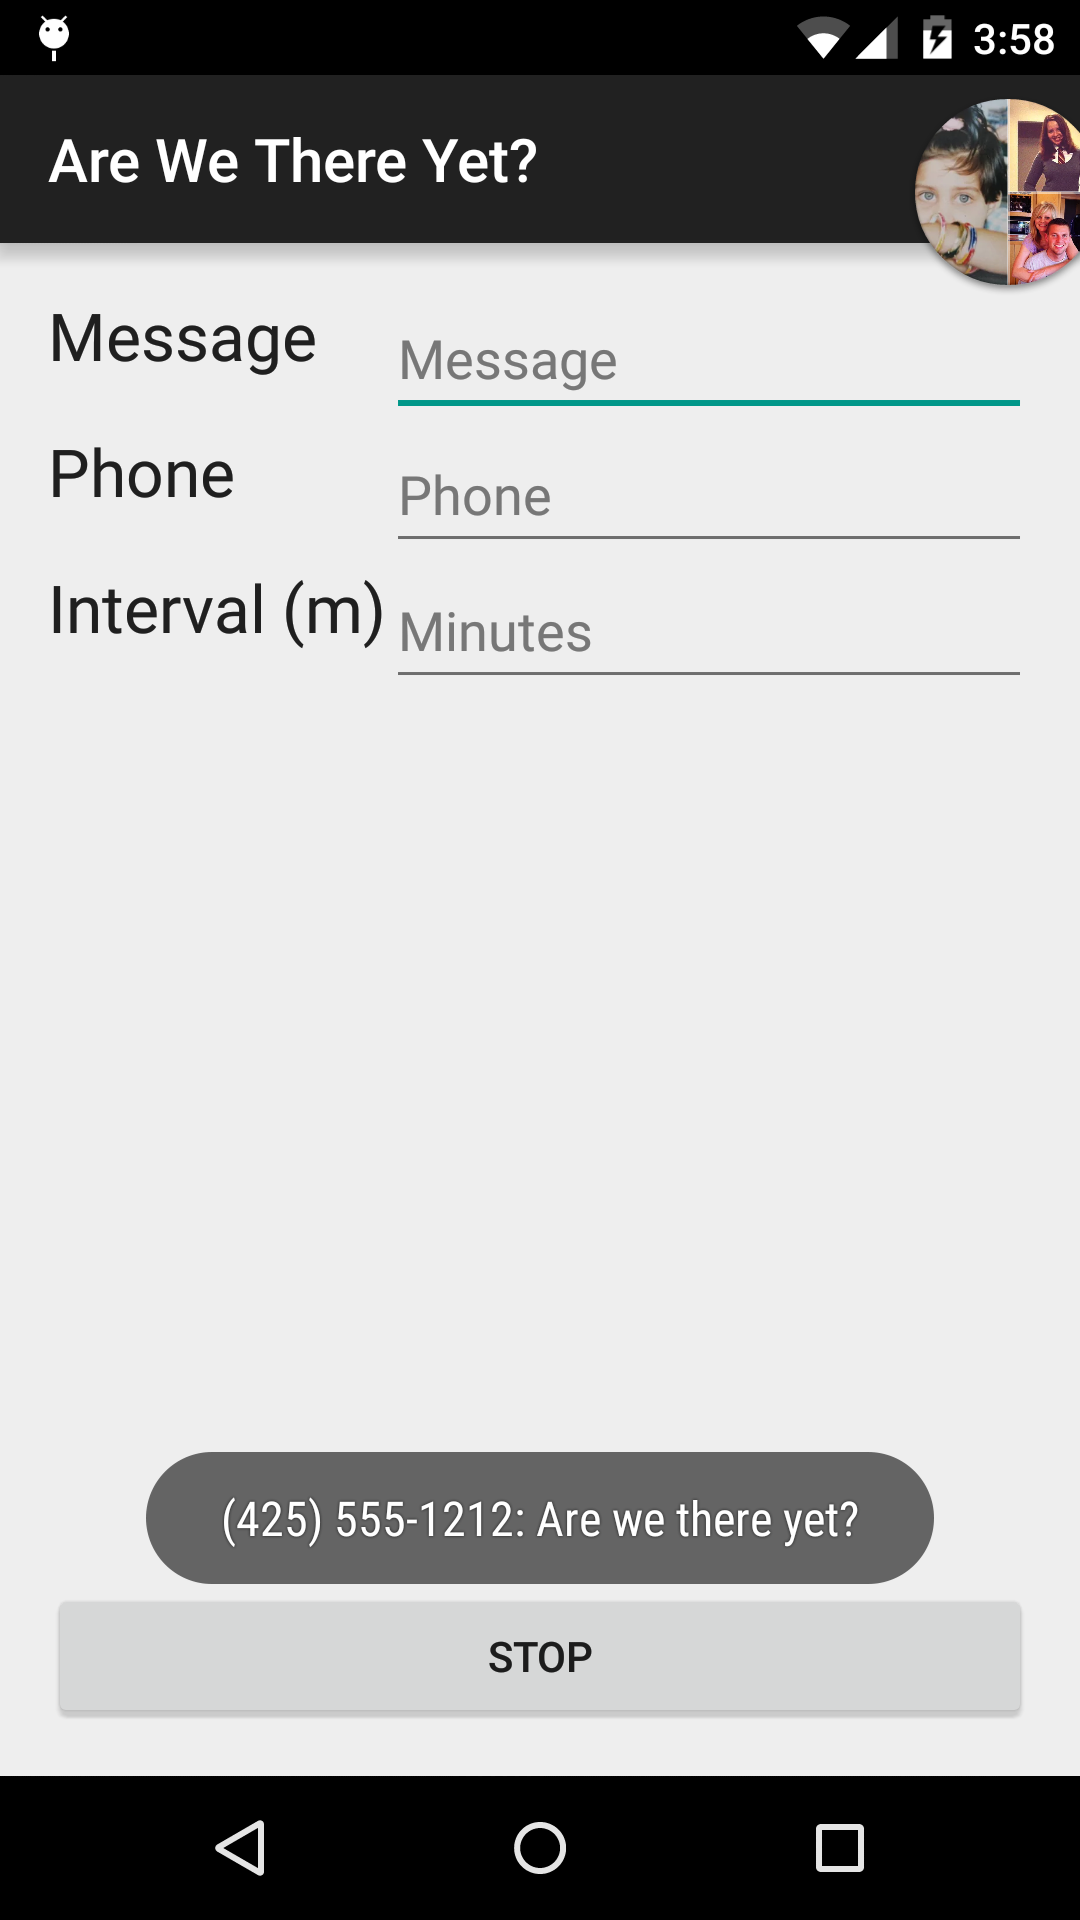
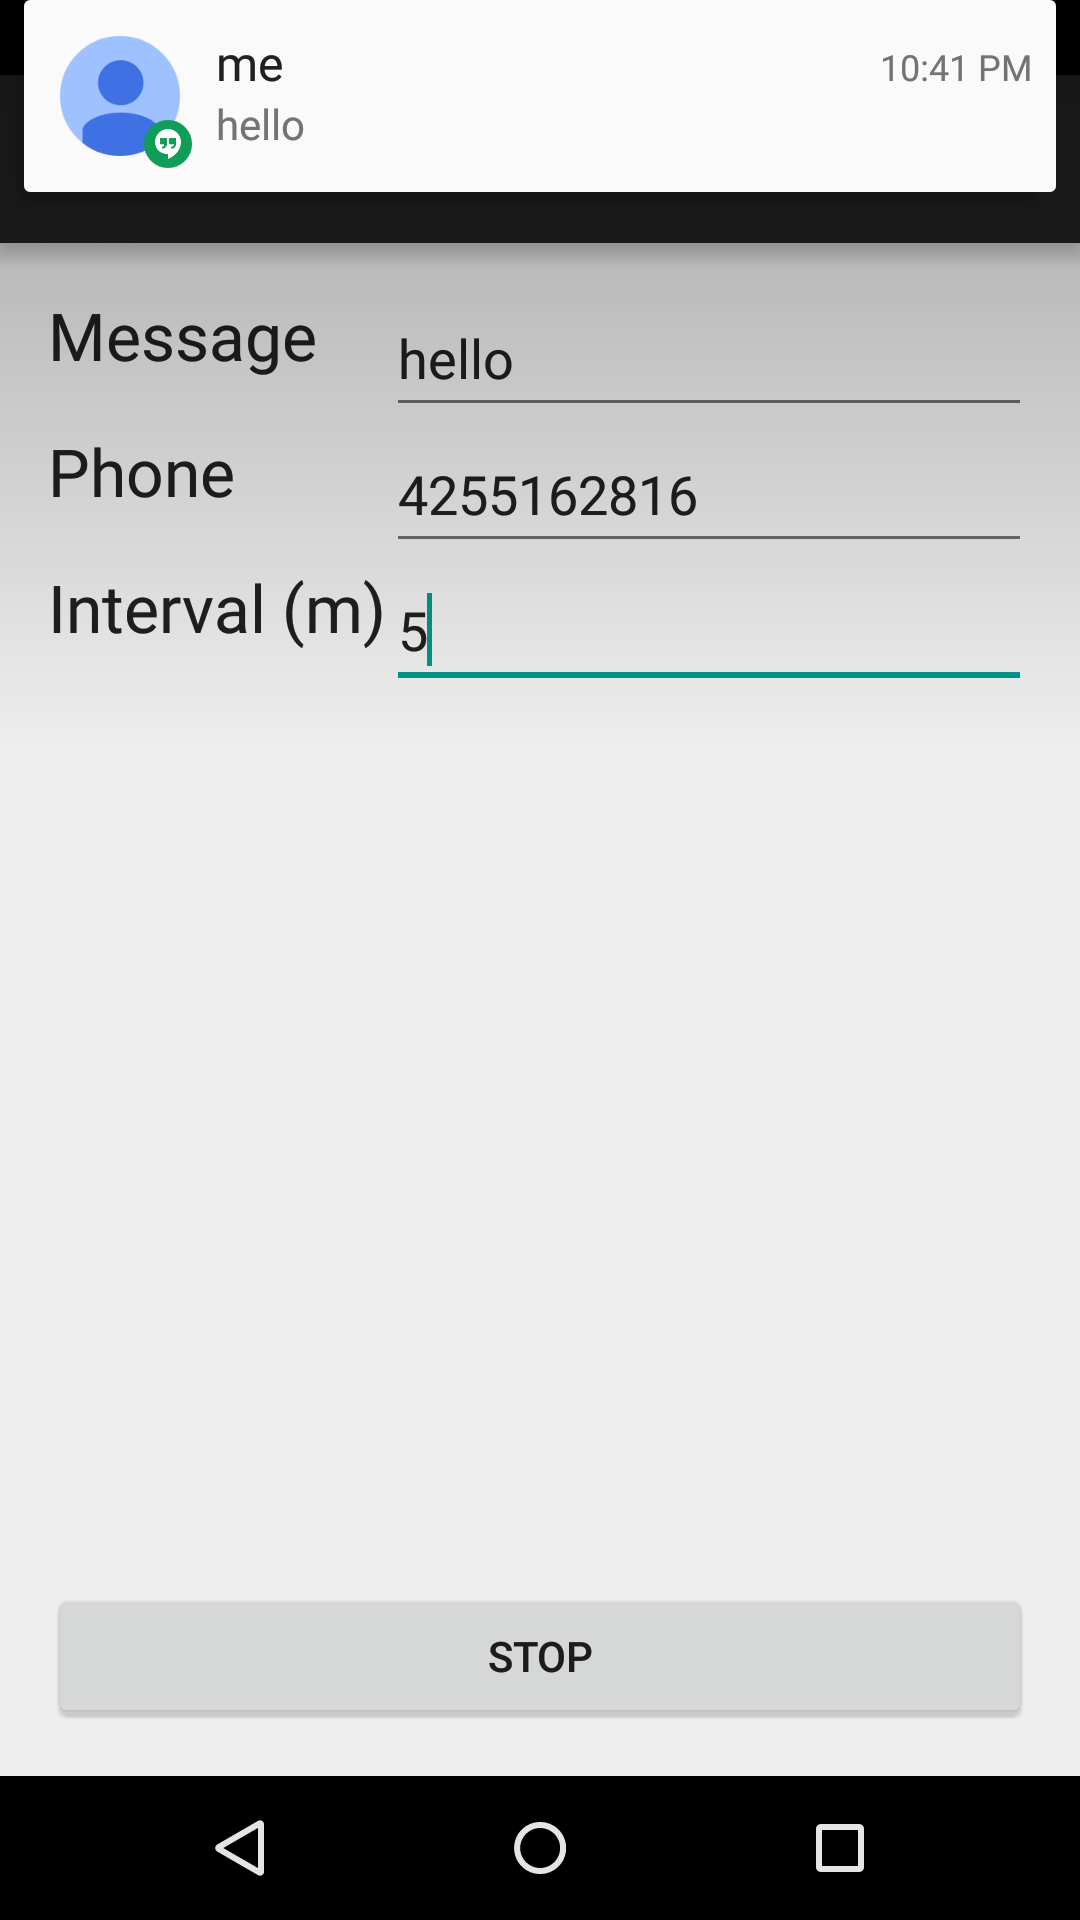
Added screenshots and fixed interval.

Changed region(s): [[0.0, 0.0, 1.0, 0.2812], [0.1222, 0.75, 0.8861, 0.8438], [0.3667, 0.3125, 0.55, 0.375]]

diff --git a/app/src/main/java/edu/washington/nadava/awty/MainActivity.java b/app/src/main/java/edu/washington/nadava/awty/MainActivity.java
@@ -24,7 +24,7 @@ import org.w3c.dom.Text;
 public class MainActivity extends ActionBarActivity {
     public static final String TAG = "MainActivity";
 
-    public static final int MINUTE = 1000;
+    public static final int MINUTE = 60 * 1000;
     public static final String MESSAGE = "com.washington.nadava.awty.sendmessage.MESSAGE";
     public static final String NUMBER = "com.washington.nadava.awty.sendmessage.NUMBER";
     public static final String INTERVAL = "com.washington.nadava.awty.sendmessage.INTERVAL";
